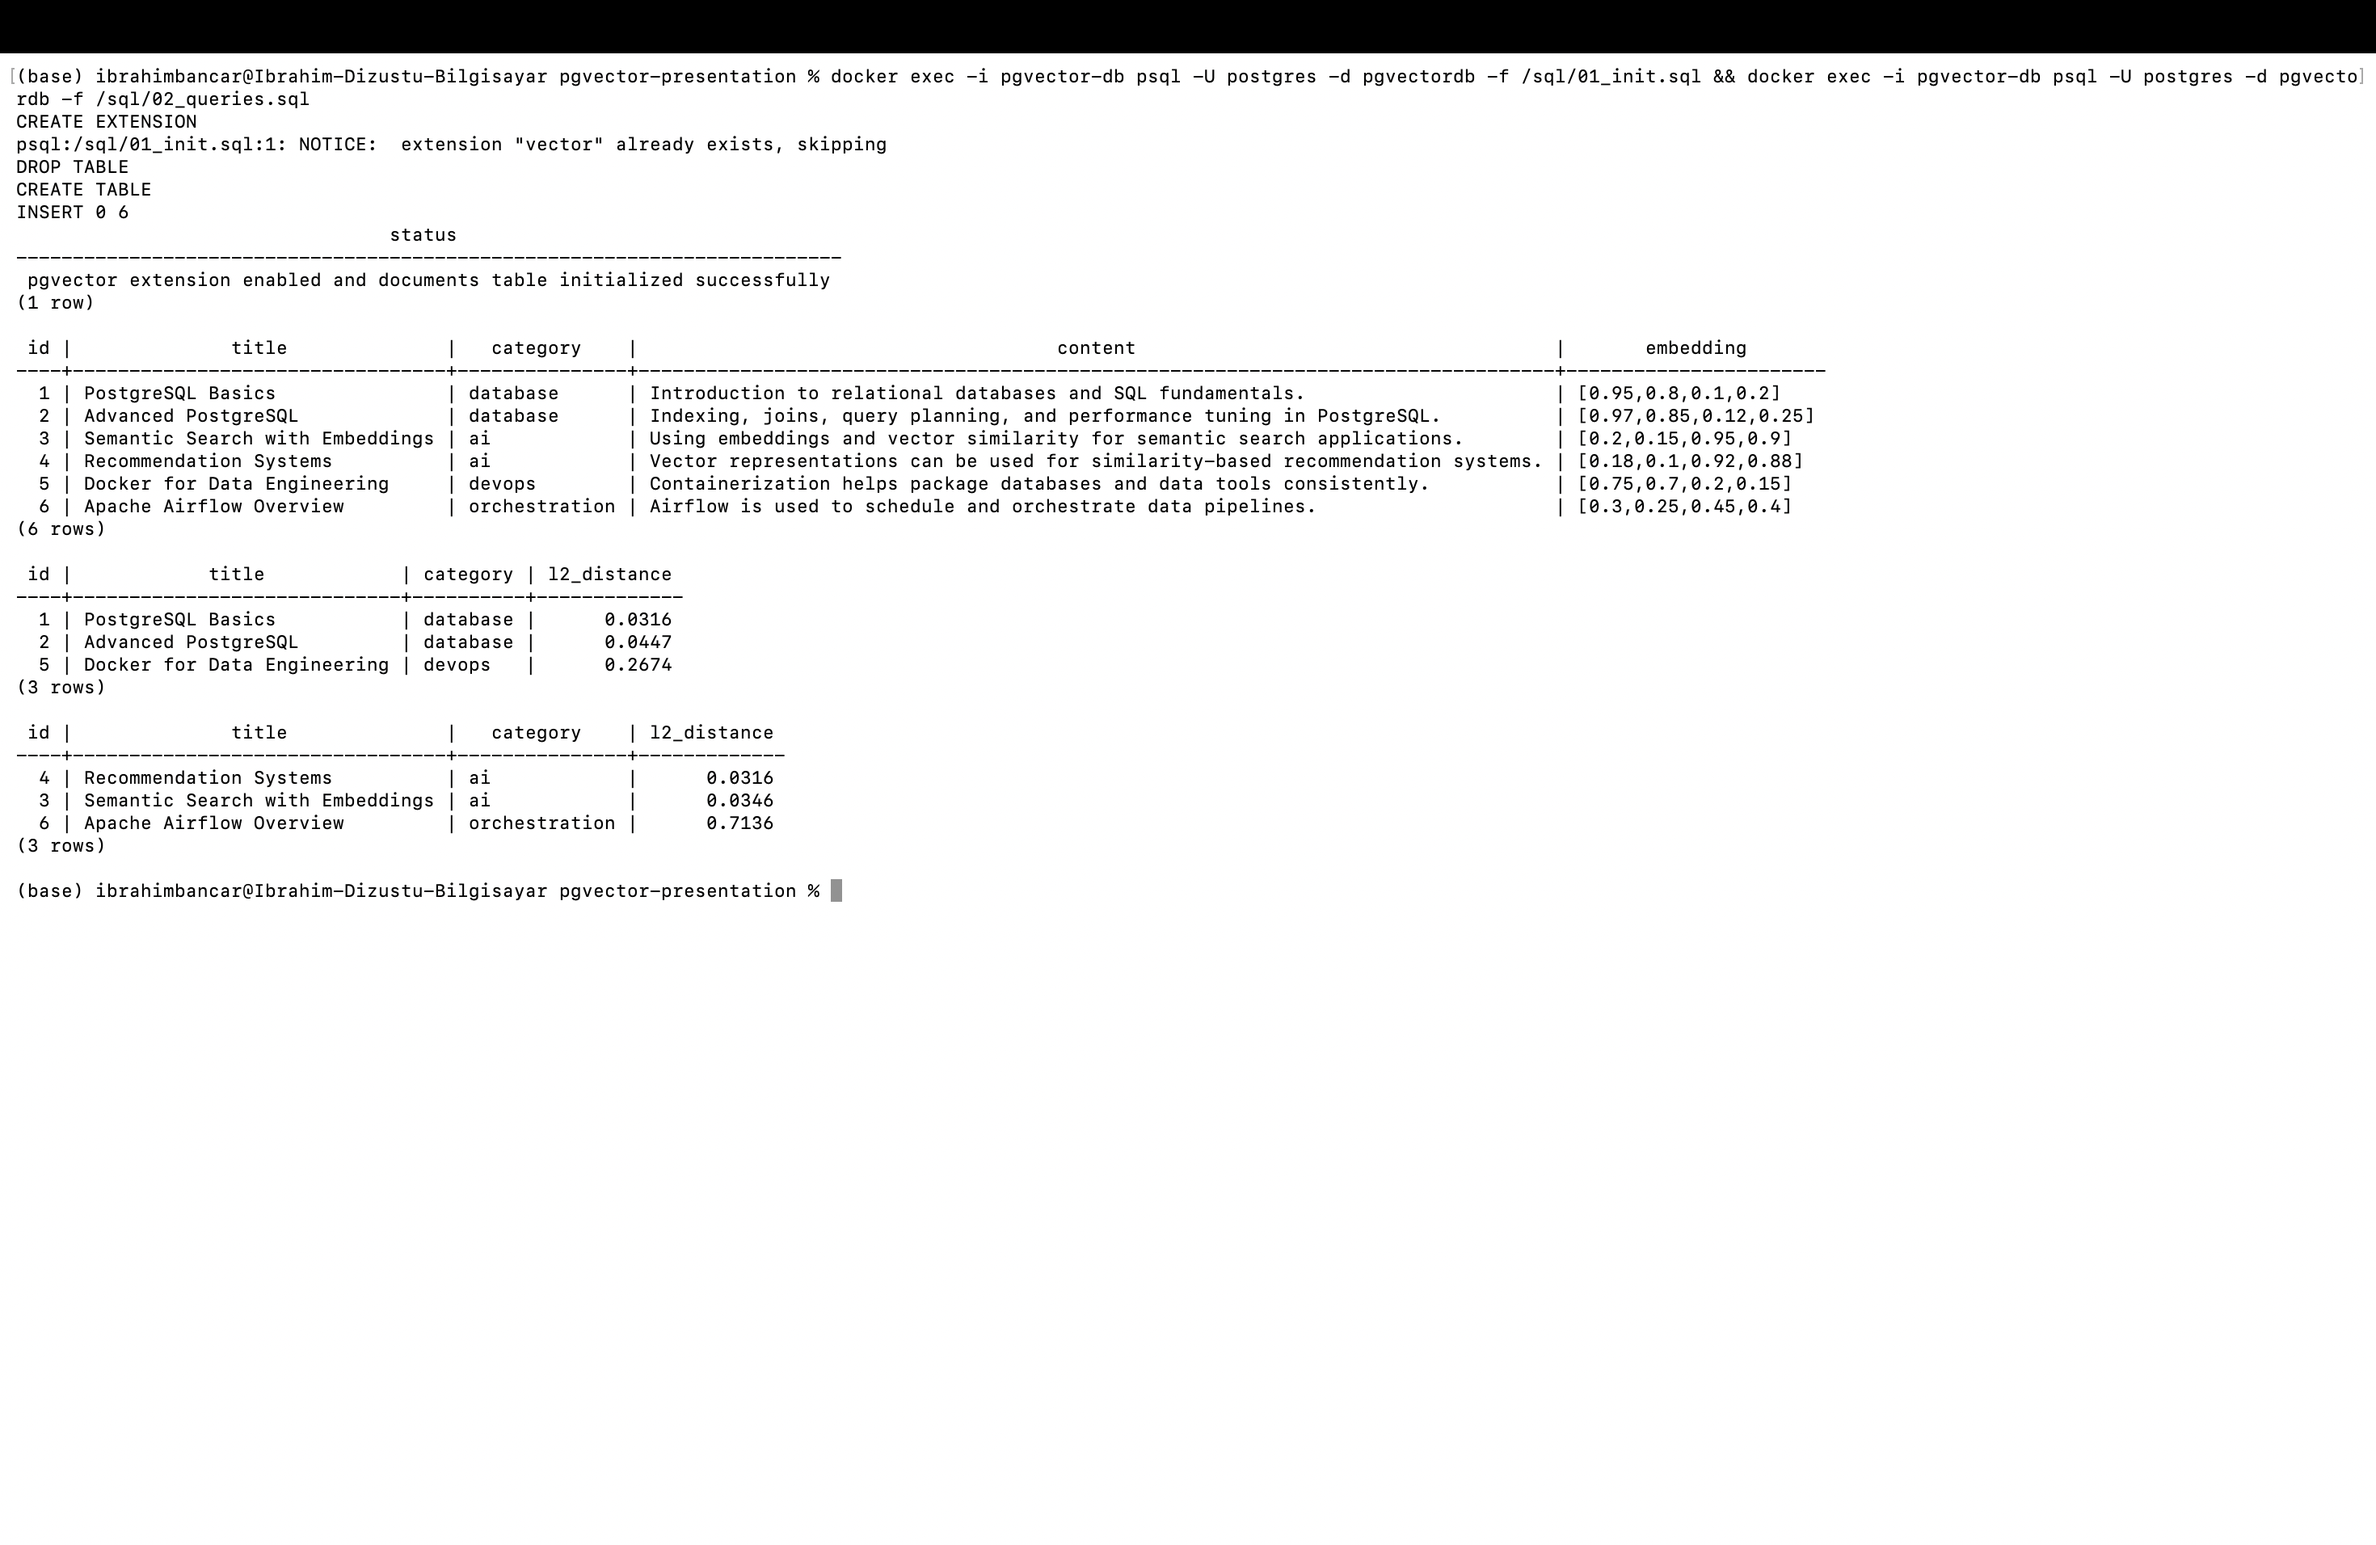
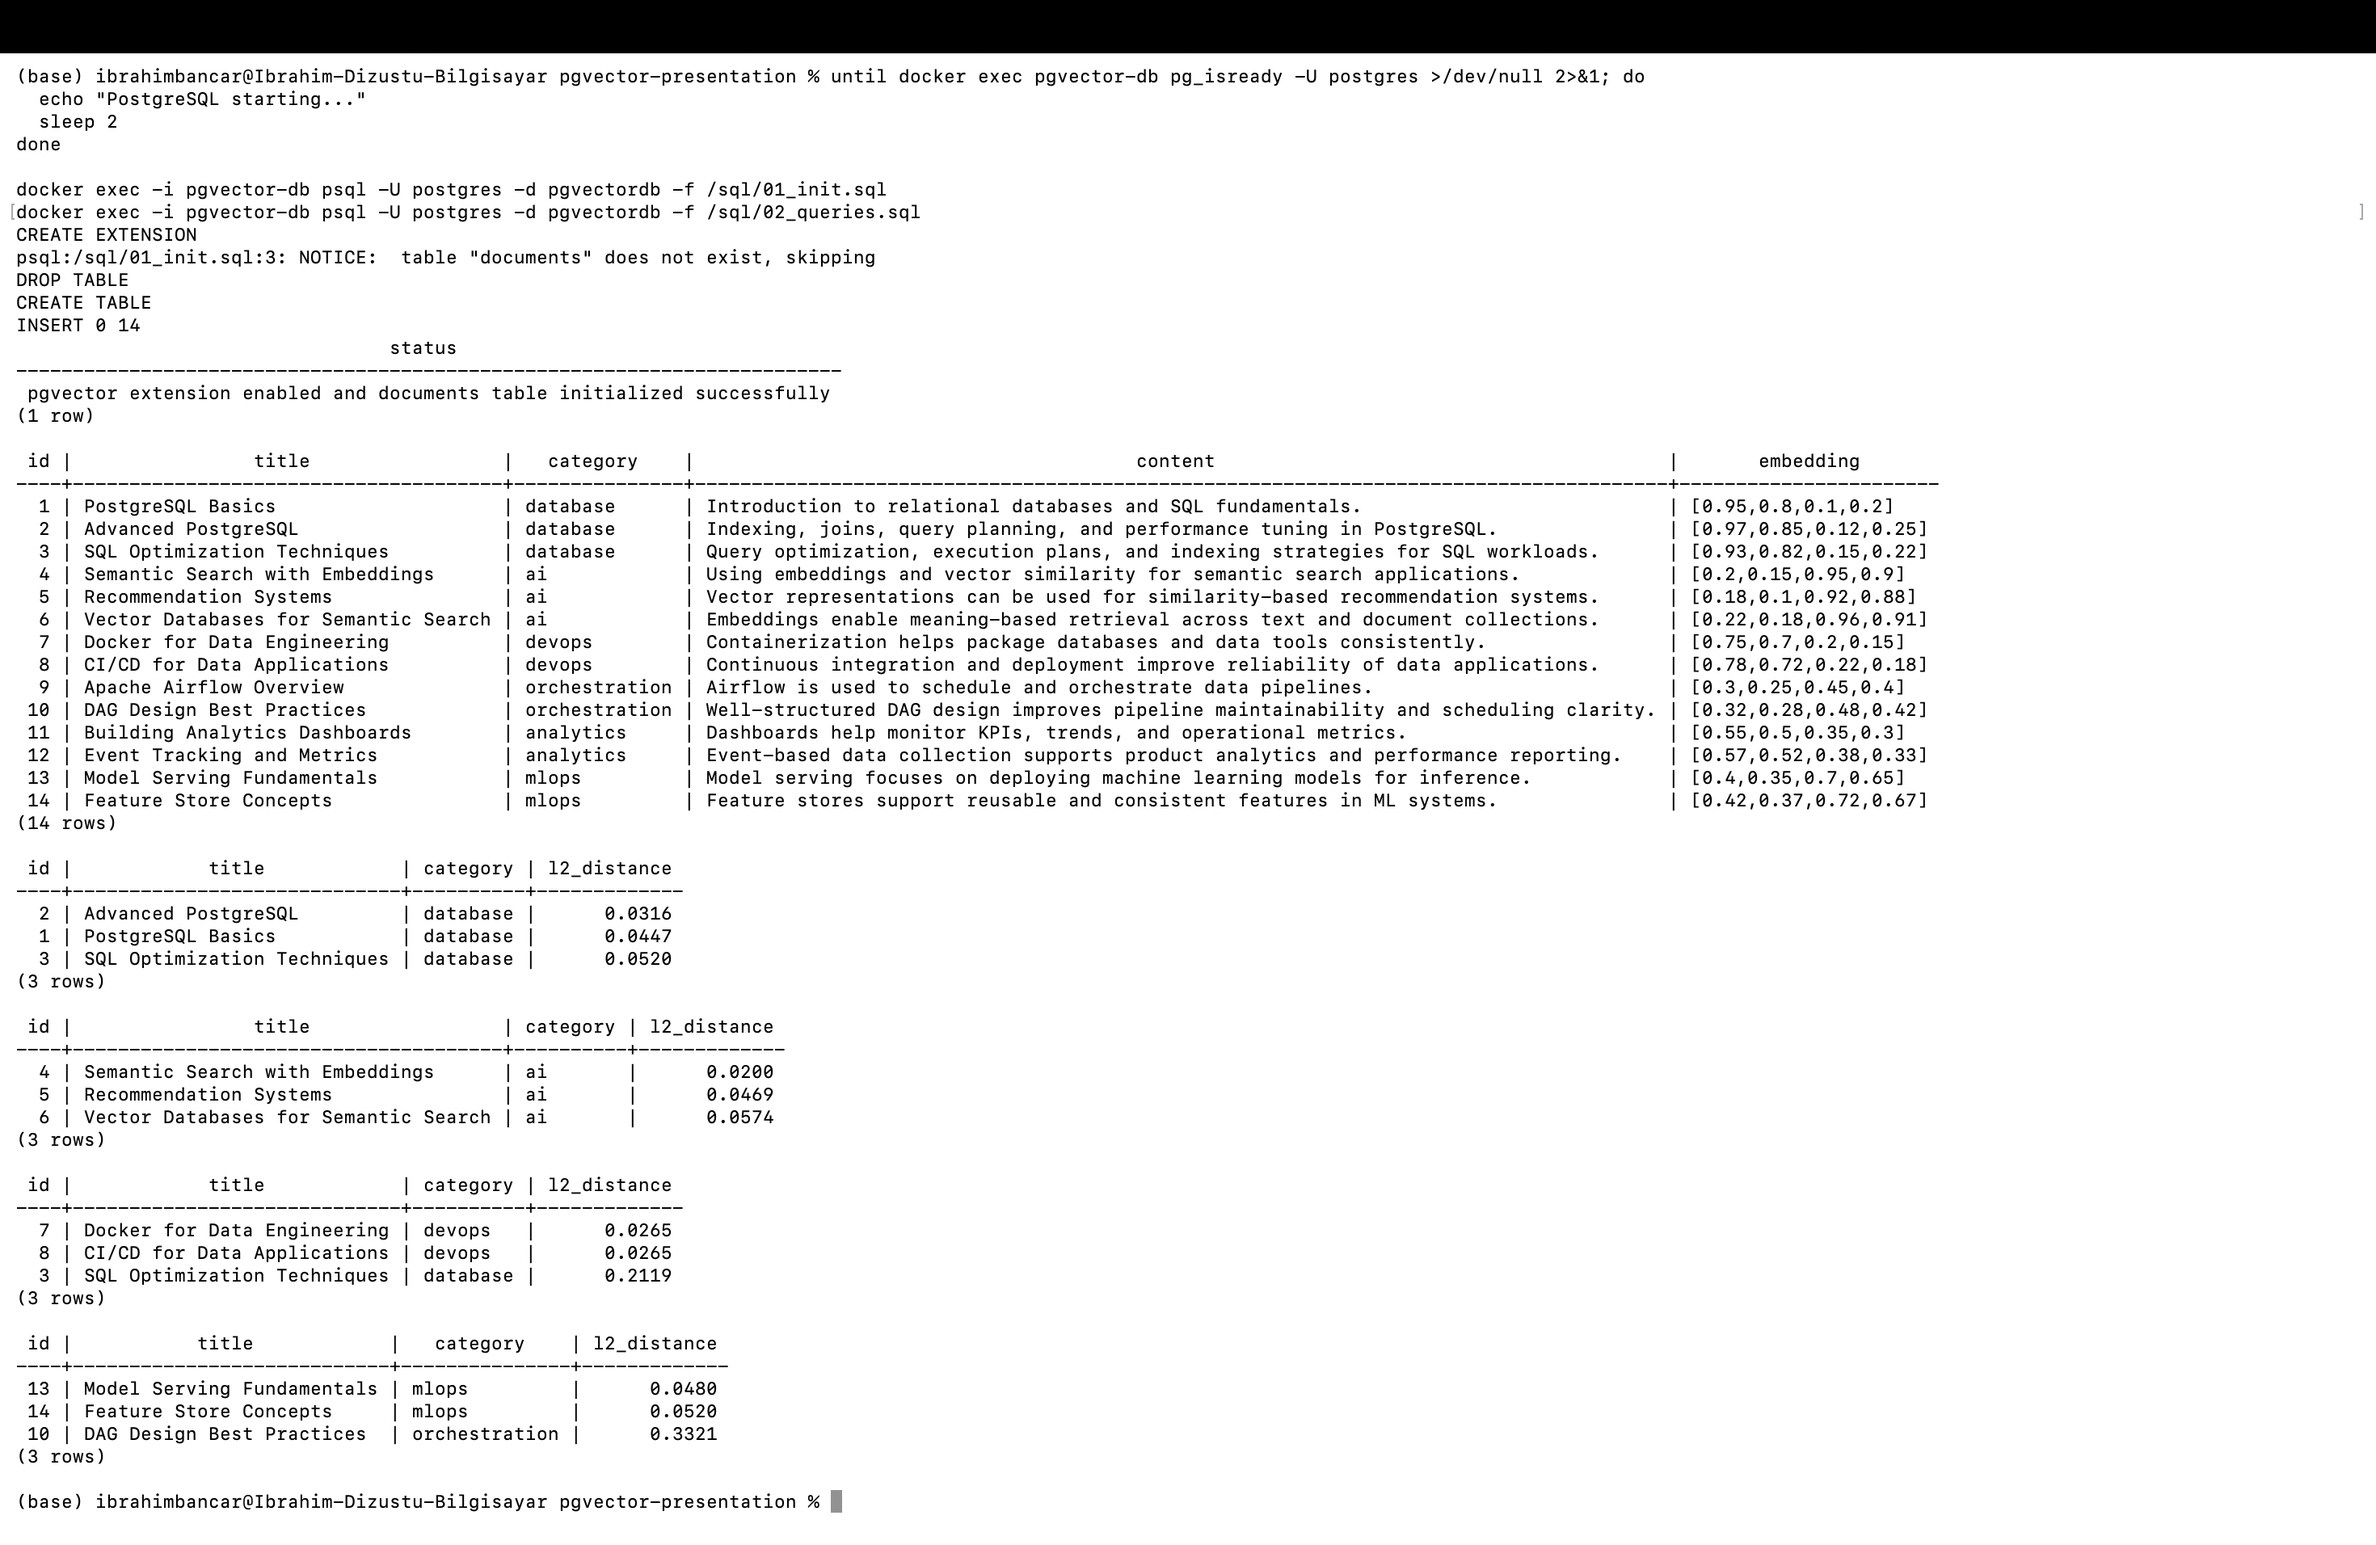
Update README, demo, SQL scripts, screenshots, and presentation

diff --git a/README.md b/README.md
@@ -1,45 +1,24 @@
 # Semantic Similarity Search in PostgreSQL Using pgvector
 
 ## What is this tool?
-pgvector is an open-source PostgreSQL extension that adds a vector data type and similarity search capabilities to Postgres. It allows embeddings to be stored directly in PostgreSQL tables and queried with nearest-neighbor search operators.
+pgvector is an open-source PostgreSQL extension for storing and querying vector embeddings inside PostgreSQL. It enables exact and approximate nearest-neighbor search directly in the database, which makes it useful for semantic search, recommendation systems, and similarity-based retrieval.
 
-In this project, pgvector is used to store document embeddings and retrieve the most similar documents to a given query vector.
-
-## Why is it useful?
-pgvector is useful for:
-- semantic search
-- recommendation systems
-- similarity matching
-- embedding-aware retrieval inside PostgreSQL
-
-It is especially valuable when a project already uses PostgreSQL and wants vector search without introducing a separate vector database.
-
-## Course Connection
-This project is related to Applied Data Engineering because it demonstrates:
-- database extension usage
-- containerized infrastructure with Docker
-- structured data storage in PostgreSQL
-- reproducible execution with SQL and Python
-- a realistic modern data engineering use case involving vector search and retrieval
-
-## Project Structure
-
-    pgvector-presentation/
-    ├── app/demo.py
-    ├── sql/01_init.sql
-    ├── sql/02_queries.sql
-    ├── sql/03_index_demo.sql
-    ├── docker-compose.yml
-    ├── requirements.txt
-    ├── README.md
-    ├── AI_USAGE.md
-    ├── screenshots/
-    └── slides/
+## Repository
+GitHub repository for this project:
+https://github.com/ibrahim-bancar/pgvector-presentation
 
 ## Prerequisites
+Tested on:
+- macOS
 - Docker Desktop
 - Python 3
 - pip
+
+Project files:
+- SQL scripts in `sql/`
+- Python demo in `app/demo.py`
+- screenshots in `screenshots/`
+- presentation files in `slides/`
 
 ## Installation
 Install the Python dependency:
@@ -47,16 +26,23 @@ Install the Python dependency:
     python -m pip install -r requirements.txt
 
 ## Running the Example
-Start the database from scratch:
+Start the PostgreSQL container:
 
     docker compose down -v
     docker compose up -d
 
-Initialize pgvector and create the demo table:
+Wait until PostgreSQL is ready:
+
+    until docker exec pgvector-db pg_isready -U postgres >/dev/null 2>&1; do
+      echo "PostgreSQL starting..."
+      sleep 2
+    done
+
+Initialize the extension, table, and sample data:
 
     docker exec -i pgvector-db psql -U postgres -d pgvectordb -f /sql/01_init.sql
 
-Run the SQL query demonstrations:
+Run the query demonstrations:
 
     docker exec -i pgvector-db psql -U postgres -d pgvectordb -f /sql/02_queries.sql
 
@@ -64,36 +50,95 @@ Create and inspect the HNSW index:
 
     docker exec -i pgvector-db psql -U postgres -d pgvectordb -f /sql/03_index_demo.sql
 
-Run the Python application demo:
+Run the Python demo:
 
     python app/demo.py
 
 ## Expected Output
+The project creates a `documents` table with 14 sample rows and a `vector(4)` embedding column.
+
 Example Python output:
 
     Top 3 similar documents:
     ------------------------------------------------------------
-    id=4 | title=Recommendation Systems | category=ai | l2_distance=0.0316
-    id=3 | title=Semantic Search with Embeddings | category=ai | l2_distance=0.0346
-    id=6 | title=Apache Airflow Overview | category=orchestration | l2_distance=0.7136
+    id=5 | title=Recommendation Systems | category=ai | l2_distance=0.0316
+    id=4 | title=Semantic Search with Embeddings | category=ai | l2_distance=0.0346
+    id=6 | title=Vector Databases for Semantic Search | category=ai | l2_distance=0.0728
+
+## Tool Summary
+### Brief definition
+pgvector is a PostgreSQL extension that adds support for vector data and vector similarity search.
+
+### Release year
+- Initial public release: 2021
+
+### Developer / maintainer
+- Created and maintained by Andrew Kane
+
+### License
+- PostgreSQL License
+
+## Demo Design
+This demo uses one table named `documents`.
+
+Columns:
+- `id`: unique row identifier
+- `title`: document title
+- `category`: document category
+- `content`: short document text
+- `embedding`: 4-dimensional vector representation stored as `vector(4)`
+
+The demo includes 14 handcrafted sample documents across multiple categories:
+- database
+- ai
+- devops
+- orchestration
+- analytics
+- mlops
+
+The embeddings in this demo are manually designed sample vectors. They are not generated by a real embedding model. Their purpose is to simulate semantic similarity in a simple and understandable way for presentation.
+
+## Query Logic
+The SQL demo shows:
+- full table listing
+- database-oriented nearest-neighbor search
+- AI-oriented nearest-neighbor search
+- DevOps-oriented nearest-neighbor search
+- MLOps-oriented nearest-neighbor search
+- HNSW index creation for faster nearest-neighbor search
+
+Similarity is measured with L2 distance using the `<->` operator.
 
 ## Technical Summary
 This project uses:
 - PostgreSQL with the pgvector extension
-- a vector(4) column for embeddings
-- L2 distance queries with the <-> operator
-- an HNSW index using vector_l2_ops
-- a Python script with psycopg to query nearest neighbors
+- a `vector(4)` column for embeddings
+- L2 distance search with the `<->` operator
+- HNSW indexing with `vector_l2_ops`
+- Docker for reproducible setup
+- Python with `psycopg` for database access
 
 ## Notes
-If SQL changes are not appearing, recreate the database:
+If PostgreSQL is not ready immediately after container startup, wait until `pg_isready` succeeds before running SQL scripts.
+
+If SQL changes are not reflected, rebuild from scratch:
 
     docker compose down -v
     docker compose up -d
 
-## AI Usage Disclosure
-Please see AI_USAGE.md.
+## Expected Screenshots
+Suggested screenshots for the repository:
+- container running
+- initialization and query output
+- HNSW index output
+- Python demo output
 
-## Repository
-Public GitHub repository:
-https://github.com/ibrahim-bancar/pgvector-presentation
+## AI Usage Disclosure
+Please see `AI_USAGE.md`.
+
+## References
+- Official pgvector GitHub repository
+- PostgreSQL documentation
+- https://www.tigerdata.com/blog/implementing-filtered-semantic-search-using-pgvector-and-javascript-2
+- https://www.blackslate.io/articles/how-to-install-and-configure-pgvector-a-detailed-guide
+- https://medium.com/data-and-beyond/sql-vs-vector-databases-choosing-the-right-tool-for-your-ai-powered-application-eb3bef40921b

diff --git a/slides/slide_outline.md b/slides/slide_outline.md
@@ -34,7 +34,7 @@
 
 ## Slide 6 — Demo Architecture and Workflow
 - Docker runs PostgreSQL with pgvector.
-- SQL scripts create the table and load sample embeddings.
+- SQL scripts create the table and load 14 sample documents with embeddings.
 - Similarity search uses L2 distance with the <-> operator.
 - HNSW index improves nearest-neighbor search performance.
 - Python queries the same database and returns top matches.
@@ -47,7 +47,7 @@
 - Good for integrated applications
 
 ### Limitations
-- This demo uses a very small handcrafted dataset
+- This demo uses a small handcrafted dataset with 14 rows
 - Vector dimension is only 4 for simplicity
 - Real systems would use real embeddings and larger data
 
